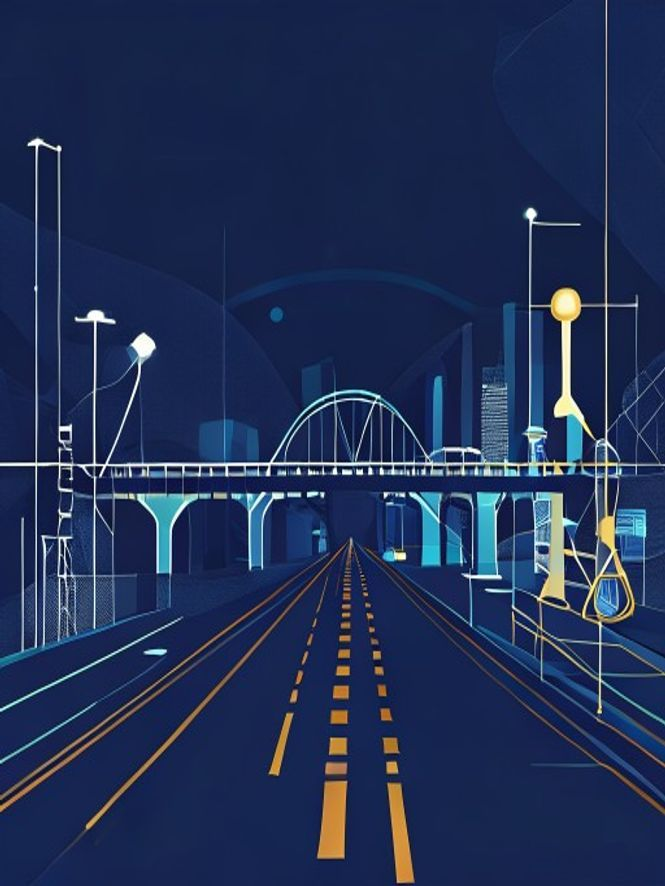
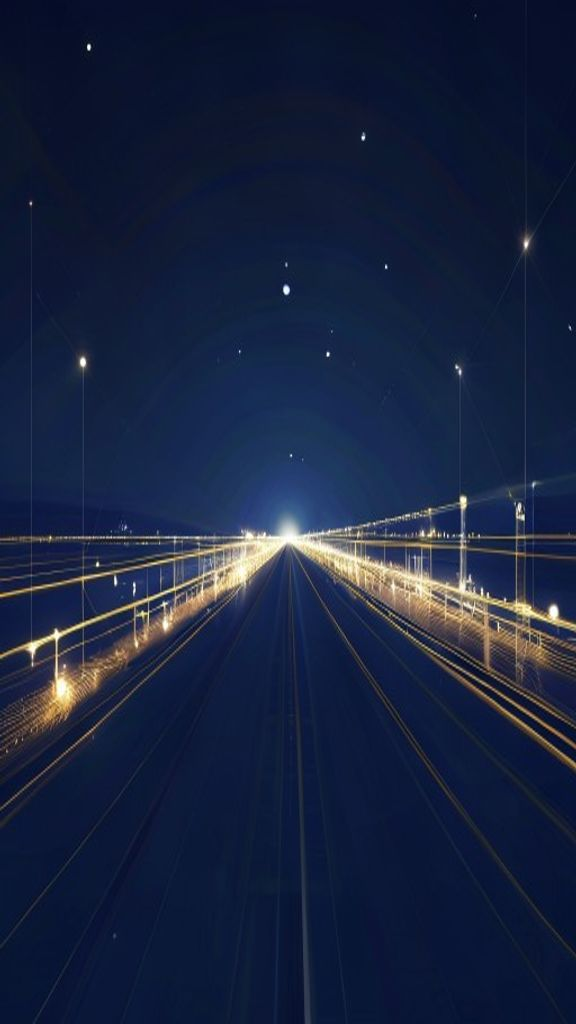
密码重置功能：API+前端，6层质量审查PASS，bcrypt统一为async hash 12rounds

diff --git a/03-开发/src/app/(dashboard)/admin/tenants/page.tsx b/03-开发/src/app/(dashboard)/admin/tenants/page.tsx
@@ -73,6 +73,12 @@ export default function TenantsPage() {
   const [newUser, setNewUser] = useState({ email: "", name: "", password: "" });
   const [addingUser, setAddingUser] = useState(false);
 
+  // 密码重置
+  const [resetUser, setResetUser] = useState<TenantUser | null>(null);
+  const [resetPassword, setResetPassword] = useState("");
+  const [resetting, setResetting] = useState(false);
+  const [resetSuccess, setResetSuccess] = useState(false);
+
   // 配额编辑
   const [editingQuota, setEditingQuota] = useState(false);
   const [quotaForm, setQuotaForm] = useState({ quotaUsers: 100, quotaApps: 50, quotaOrgLevels: 5 });
@@ -173,6 +179,30 @@ export default function TenantsPage() {
       loadUsers(activeTenant.id);
     } catch {
       setError("操作失败");
+    }
+  };
+
+  // 打开密码重置弹窗
+  const openResetPassword = (user: TenantUser) => {
+    setResetUser(user);
+    setResetPassword("");
+    setResetSuccess(false);
+  };
+
+  // 执行密码重置
+  const handleResetPassword = async () => {
+    if (!activeTenant || !resetUser) return;
+    setResetting(true);
+    try {
+      const body: { password?: string } = {};
+      if (resetPassword) body.password = resetPassword;
+      await api.post(`/api/tenants/${activeTenant.id}/users/${resetUser.id}/reset-password`, body);
+      setResetSuccess(true);
+    } catch (err: unknown) {
+      const apiErr = err as { error?: string };
+      setError(apiErr.error || "重置失败");
+    } finally {
+      setResetting(false);
     }
   };
 
@@ -456,13 +486,22 @@ export default function TenantsPage() {
                               <p className="text-xs text-gray-400">部门：{user.department.name}</p>
                             )}
                           </div>
-                          <Button
-                            size="sm"
-                            variant={user.isGlobalAdmin ? "danger" : "ghost"}
-                            onClick={() => toggleAdmin(user)}
-                          >
-                            {user.isGlobalAdmin ? "取消管理员" : "设为管理员"}
-                          </Button>
+                          <div className="flex gap-2">
+                            <Button
+                              size="sm"
+                              variant="ghost"
+                              onClick={() => openResetPassword(user)}
+                            >
+                              重置密码
+                            </Button>
+                            <Button
+                              size="sm"
+                              variant={user.isGlobalAdmin ? "danger" : "ghost"}
+                              onClick={() => toggleAdmin(user)}
+                            >
+                              {user.isGlobalAdmin ? "取消管理员" : "设为管理员"}
+                            </Button>
+                          </div>
                         </div>
                       ))}
                     </div>
@@ -604,6 +643,58 @@ export default function TenantsPage() {
                 </div>
               )}
             </div>
+          </div>
+        </div>
+      )}
+      {/* ===== 密码重置弹窗 ===== */}
+      {resetUser && (
+        <div className="fixed inset-0 z-[60] flex items-center justify-center">
+          <div className="absolute inset-0 bg-black/50" onClick={() => setResetUser(null)} />
+          <div className="relative bg-white rounded-lg shadow-xl w-full max-w-md mx-4 p-6">
+            {resetSuccess ? (
+              <div className="text-center">
+                <div className="w-12 h-12 bg-green-100 rounded-full flex items-center justify-center mx-auto mb-4">
+                  <svg className="w-6 h-6 text-green-600" fill="none" stroke="currentColor" strokeWidth={2} viewBox="0 0 24 24">
+                    <path strokeLinecap="round" strokeLinejoin="round" d="M5 13l4 4L19 7" />
+                  </svg>
+                </div>
+                <h3 className="text-lg font-bold text-[#333] mb-2">密码已重置</h3>
+                <p className="text-sm text-gray-500 mb-4">
+                  {resetUser.name || resetUser.email} 的密码已重置为：
+                </p>
+                <div className="p-3 bg-gray-100 rounded-lg font-mono text-lg text-center mb-4">
+                  {resetPassword || "1234Aa78"}
+                </div>
+                <Button onClick={() => setResetUser(null)}>完成</Button>
+              </div>
+            ) : (
+              <>
+                <h3 className="text-lg font-bold text-[#333] mb-1">重置密码</h3>
+                <p className="text-sm text-gray-500 mb-4">
+                  为 <span className="font-medium">{resetUser.name || resetUser.email}</span> 重置密码
+                </p>
+                <div className="space-y-4">
+                  <Input
+                    label="新密码（留空则使用默认密码）"
+                    type="text"
+                    value={resetPassword}
+                    onChange={(e) => setResetPassword(e.target.value)}
+                    placeholder="默认：1234Aa78"
+                  />
+                  <p className="text-xs text-gray-400">
+                    默认密码：1234Aa78（8位，含大小写和数字）
+                  </p>
+                  <div className="flex gap-2">
+                    <Button loading={resetting} onClick={handleResetPassword}>
+                      确认重置
+                    </Button>
+                    <Button variant="secondary" onClick={() => setResetUser(null)}>
+                      取消
+                    </Button>
+                  </div>
+                </div>
+              </>
+            )}
           </div>
         </div>
       )}

diff --git a/03-开发/src/app/api/tenants/[id]/users/[userId]/reset-password/route.ts b/03-开发/src/app/api/tenants/[id]/users/[userId]/reset-password/route.ts
@@ -1,0 +1,55 @@
+// POST /api/tenants/[id]/users/[userId]/reset-password — 重置用户密码
+// 权限要求：主租户管理员
+// 默认密码：1234Aa78，可通过 body 自定义
+// ============================================================
+
+import { NextRequest } from "next/server";
+import { z } from "zod";
+import { hash } from "bcryptjs";
+import { db } from "@/lib/prisma";
+import { getAuthUser } from "@/lib/auth";
+import { parseBody } from "@/lib/validate";
+import { success, error, forbidden, unauthorized, notFound } from "@/lib/api-response";
+
+const resetPasswordSchema = z.object({
+  password: z
+    .string()
+    .min(8, "密码至少8位")
+    .regex(/[A-Z]/, "密码必须包含大写字母")
+    .regex(/[a-z]/, "密码必须包含小写字母")
+    .regex(/[0-9]/, "密码必须包含数字")
+    .optional()
+    .default("1234Aa78"),
+});
+
+export async function POST(
+  request: NextRequest,
+  { params }: { params: { id: string; userId: string } }
+) {
+  const payload = await getAuthUser(request);
+  if (!payload) return unauthorized();
+  if (!payload.isGlobalAdmin) return forbidden("仅限主租户");
+
+  const user = await db.user.findFirst({
+    where: { id: params.userId, tenantId: params.id },
+  });
+  if (!user) return notFound("用户不存在");
+
+  const parsed = await parseBody(request, resetPasswordSchema);
+  if (!parsed.success) return error(parsed.error);
+
+  const { password } = parsed.data;
+  const passwordHash = await hash(password, 12);
+
+  await db.user.update({
+    where: { id: params.userId },
+    data: {
+      passwordHash,
+      failedLoginAttempts: 0,
+      lockedUntil: null,
+      status: "active",
+    },
+  });
+
+  return success({ message: "密码已重置" });
+}

diff --git a/03-开发/src/app/api/tenants/[id]/users/route.ts b/03-开发/src/app/api/tenants/[id]/users/route.ts
@@ -5,7 +5,7 @@
 
 import { NextRequest } from "next/server";
 import { z } from "zod";
-import { hashSync } from "bcryptjs";
+import { hash } from "bcryptjs";
 import { db } from "@/lib/prisma";
 import { getAuthUser } from "@/lib/auth";
 import { parseBody } from "@/lib/validate";
@@ -79,11 +79,13 @@ export async function POST(
   });
   if (existing) return error("该邮箱在当前租户中已存在");
 
+  const passwordHash = await hash(password, 12);
+
   const user = await db.user.create({
     data: {
       email,
       name,
-      passwordHash: hashSync(password, 10),
+      passwordHash,
       tenantId: params.id,
       status: "active",
     },
